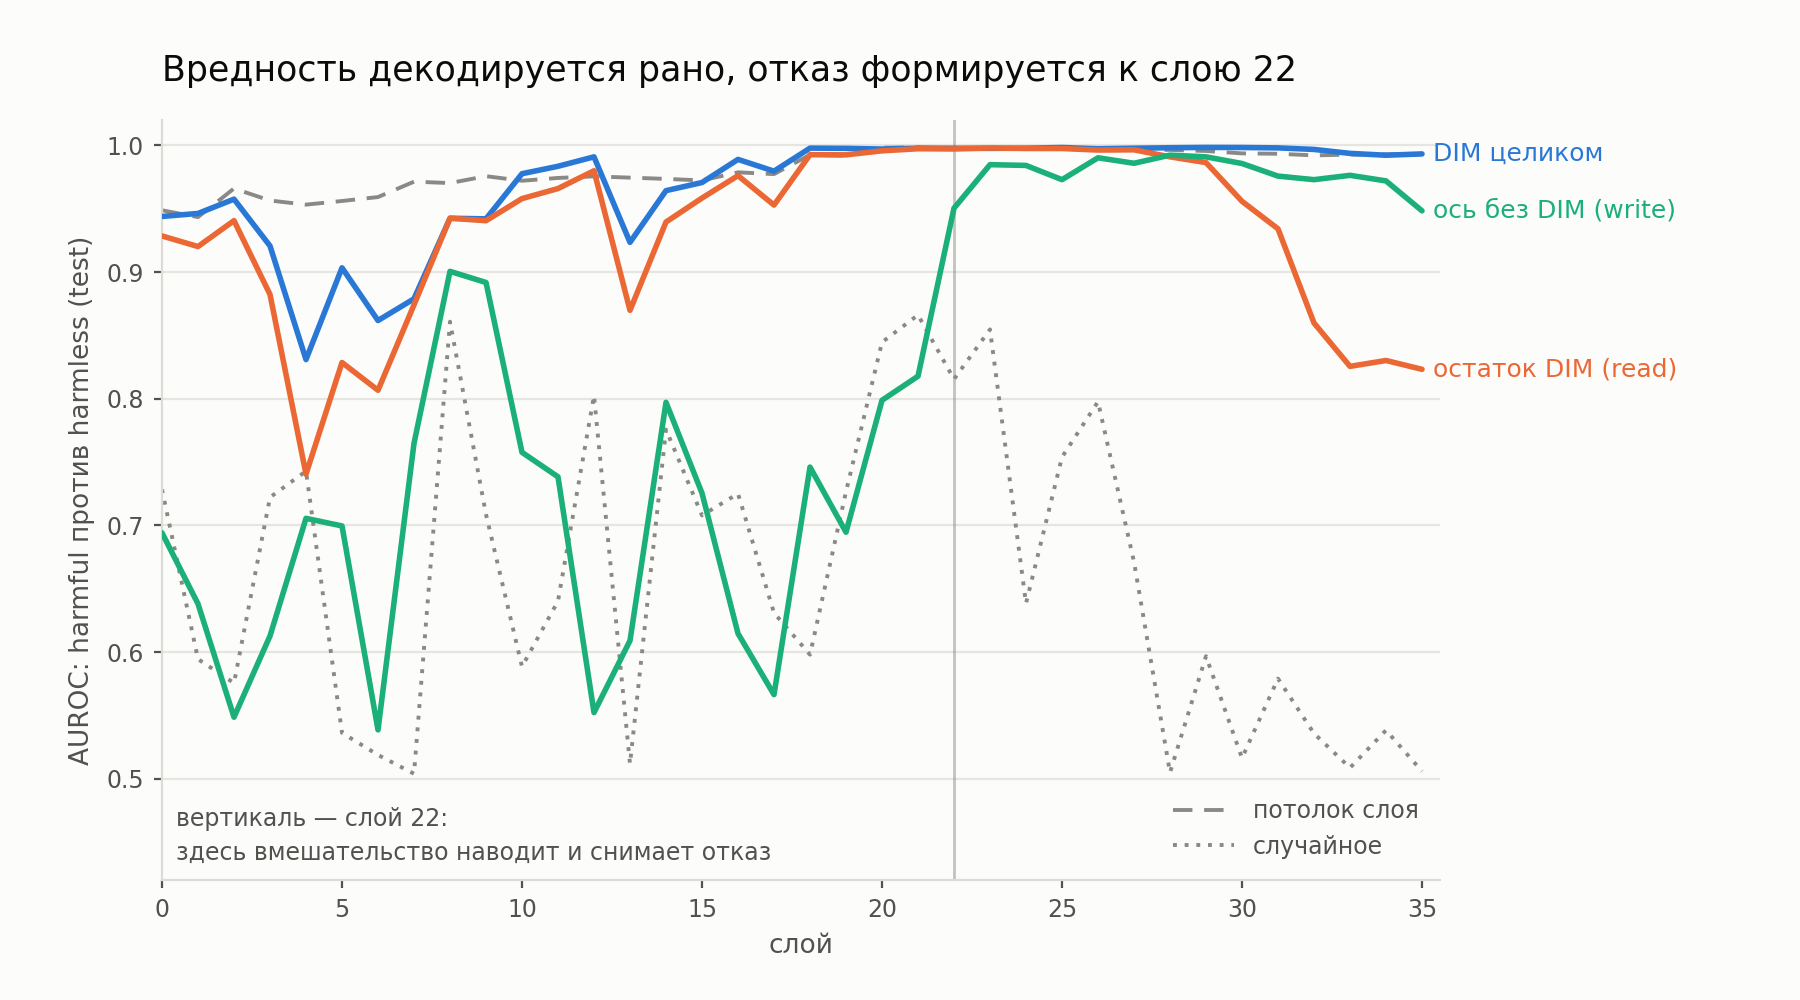
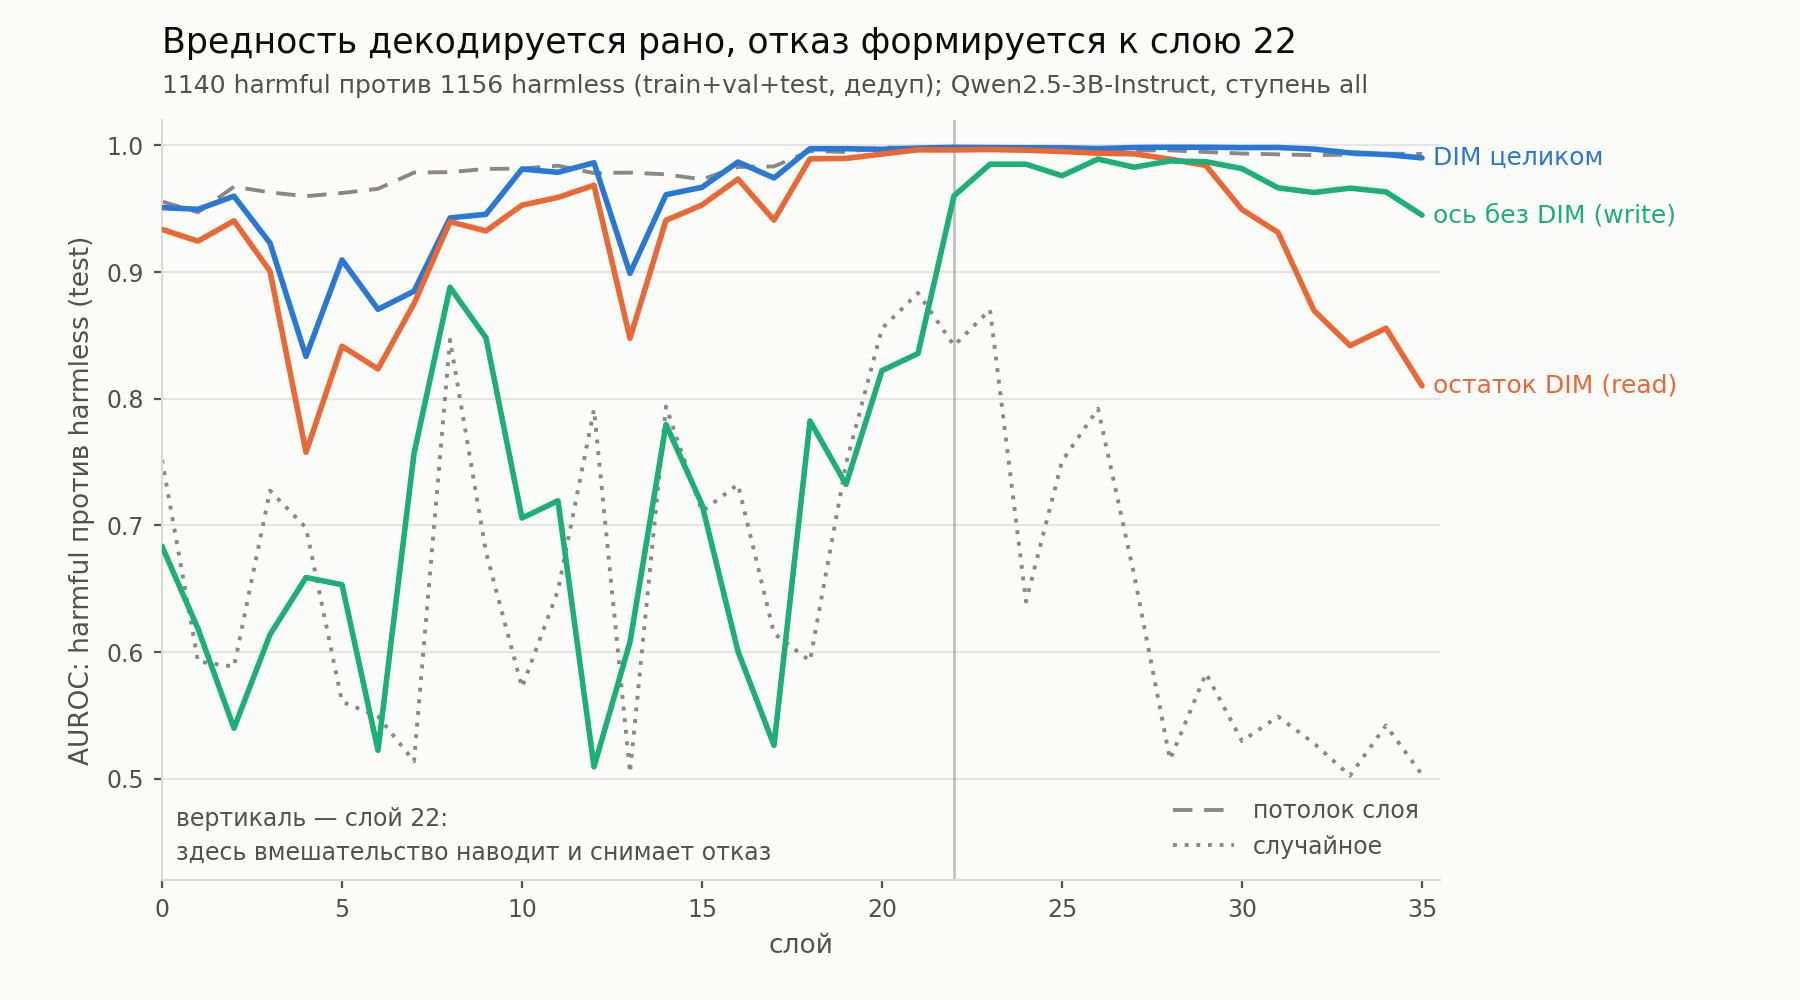
docs: §8 пересчитан на полном пуле (1140+1156) + новый график
Пересчёт на выборке в девять раз больше не изменил ни одного вывода, сдвиги
0.01-0.04. Добавлены 95% ДИ и точность по 5-фолдовой CV.

- слой 35: rand = 0.503 [0.500, 0.526] — ровно монетка, сравнение чистое
- остаток DIM на выходе 0.810 [0.793, 0.827] против 0.990 у целого DIM
- write-ось на слоях 12 и 17 даёт 0.509 и 0.526 — буквально монетка, и не
  отличается от случайного на 12 слоях из 22 до слоя 22

diff --git a/experiments/common_axis/scripts/plot_read_probe.py b/experiments/common_axis/scripts/plot_read_probe.py
@@ -34,6 +34,7 @@ def main():
     ap.add_argument("--json", required=True)
     ap.add_argument("--out", required=True)
     ap.add_argument("--mark_layer", type=int, default=22, help="слой вмешательства")
+    ap.add_argument("--note", default=None, help="подзаголовок: объём выборки и т.п.")
     args = ap.parse_args()
 
     rows = json.load(open(args.json))["rows"]
@@ -66,7 +67,12 @@ def main():
     ax.set_xlabel("слой", color=INK2, fontsize=9.5)
     ax.set_ylabel("AUROC: harmful против harmless (test)", color=INK2, fontsize=9.5)
     ax.set_title("Вредность декодируется рано, отказ формируется к слою 22",
-                 color=INK, fontsize=12.5, loc="left", pad=14)
+                 color=INK, fontsize=12.5, loc="left",
+                 pad=24 if args.note else 14)
+    if args.note:
+        ax.annotate(args.note, xy=(0, 1.0), xycoords="axes fraction",
+                    xytext=(0, 8), textcoords="offset points",
+                    color=INK2, fontsize=9, va="bottom")
     ax.grid(axis="y", color="#e6e5e1", lw=0.8)
     ax.set_axisbelow(True)
     for side in ("top", "right"):

diff --git a/experiments/common_axis/reports/read-probe-all.md b/experiments/common_axis/reports/read-probe-all.md
@@ -1,58 +1,88 @@
 # §8. Read против write: детектирует ли остаток DIM вредность? Ступень `all`
 
-Модель Qwen2.5-3B-Instruct. Проекция активации последнего токена на направление; порог подобран на train (256+256), точность и AUROC — на test (128+128).
+Модель Qwen2.5-3B-Instruct. Проекция активации последнего токена на направление. Пул: **1140 harmful + 1156 harmless** (train+val+test, дедуп). AUROC порога не требует и считается на всём пуле, 95% ДИ — бутстрэп (1000); точность — 5-фолдовая кросс-валидация.
 Знак направления произволен, поэтому AUROC берётся как max(auc, 1−auc).
 `meandiff_layer` — разность средних, посчитанная на train ЭТОГО слоя: потолок слоя.
 
-## Лучший слой каждого направления
+## Фиксированные слои (основная таблица)
 
-| направление | слой | AUROC | acc (test) | d Коэна |
+Слои зафиксированы заранее, без отбора: выбор лучшего из 36 завышает оценку у слабых направлений.
+
+AUROC на test:
+
+| направление | начальный (0) | средний (18) | add_layer (22) | последний (35) |
 |---|---|---|---|---|
-| w_cone | 21 | **0.997** | 0.980 | 3.43 |
-| dim | 29 | **0.998** | 0.977 | 4.64 |
-| dim_perp_cone | 23 | **0.998** | 0.969 | 4.14 |
-| cone_perp_dim | 28 | **0.992** | 0.953 | 2.99 |
-| rand | 21 | **0.866** | 0.797 | 1.63 |
-| w_mixed | 19 | **0.998** | 0.977 | 3.51 |
-| meandiff_layer | 21 | **0.998** | 0.977 | 4.03 |
+| w_cone | 0.897 <sub>[0.884, 0.909]</sub> | 0.993 <sub>[0.991, 0.996]</sub> | 0.998 <sub>[0.997, 0.999]</sub> | 0.994 <sub>[0.992, 0.996]</sub> |
+| dim | 0.951 <sub>[0.943, 0.958]</sub> | 0.997 <sub>[0.996, 0.998]</sub> | 0.998 <sub>[0.998, 0.999]</sub> | 0.990 <sub>[0.987, 0.993]</sub> |
+| dim_perp_cone | 0.934 <sub>[0.924, 0.943]</sub> | 0.989 <sub>[0.986, 0.992]</sub> | 0.996 <sub>[0.995, 0.997]</sub> | 0.810 <sub>[0.793, 0.827]</sub> |
+| cone_perp_dim | 0.683 <sub>[0.663, 0.704]</sub> | 0.782 <sub>[0.764, 0.800]</sub> | 0.960 <sub>[0.953, 0.967]</sub> | 0.945 <sub>[0.935, 0.954]</sub> |
+| rand | 0.752 <sub>[0.732, 0.770]</sub> | 0.593 <sub>[0.569, 0.615]</sub> | 0.842 <sub>[0.825, 0.857]</sub> | 0.503 <sub>[0.500, 0.526]</sub> |
+| w_mixed | 0.939 <sub>[0.929, 0.947]</sub> | 0.998 <sub>[0.997, 0.999]</sub> | 0.999 <sub>[0.998, 0.999]</sub> | 0.997 <sub>[0.996, 0.998]</sub> |
+| meandiff_layer | 0.956 <sub>[0.948, 0.963]</sub> | 0.995 <sub>[0.994, 0.997]</sub> | 0.998 <sub>[0.997, 0.999]</sub> | 0.993 <sub>[0.991, 0.995]</sub> |
+
+В квадратных скобках — 95% ДИ бутстрэпом по промптам.
+
+Точность, 5-фолдовая кросс-валидация:
+
+| направление | начальный (0) | средний (18) | add_layer (22) | последний (35) |
+|---|---|---|---|---|
+| w_cone | 0.821 | 0.966 | 0.983 | 0.962 |
+| dim | 0.875 | 0.975 | 0.980 | 0.953 |
+| dim_perp_cone | 0.854 | 0.937 | 0.965 | 0.743 |
+| cone_perp_dim | 0.645 | 0.724 | 0.916 | 0.896 |
+| rand | 0.686 | 0.570 | 0.777 | 0.514 |
+| w_mixed | 0.862 | 0.983 | 0.979 | 0.976 |
+| meandiff_layer | 0.885 | 0.967 | 0.978 | 0.954 |
+
+## Лучший слой каждого направления (для справки; оценка завышена отбором)
+
+| направление | слой | AUROC | acc (CV) | d Коэна |
+|---|---|---|---|---|
+| w_cone | 22 | **0.998** | 0.983 | 3.33 |
+| dim | 29 | **0.998** | 0.978 | 4.84 |
+| dim_perp_cone | 23 | **0.997** | 0.970 | 4.34 |
+| cone_perp_dim | 26 | **0.989** | 0.956 | 2.95 |
+| rand | 21 | **0.883** | 0.801 | 1.71 |
+| w_mixed | 22 | **0.999** | 0.979 | 3.65 |
+| meandiff_layer | 22 | **0.998** | 0.978 | 4.07 |
 
 ## По слоям (AUROC на test)
 
 | слой | w_cone | dim | dim_perp_cone | cone_perp_dim | rand | w_mixed | meandiff_layer |
 |---|---|---|---|---|---|---|---|
-| 0 | 0.895 | 0.944 | 0.928 | 0.694 | 0.728 | 0.934 | 0.949 |
-| 1 | 0.918 | 0.946 | 0.920 | 0.638 | 0.594 | 0.945 | 0.943 |
-| 2 | 0.933 | 0.958 | 0.941 | 0.549 | 0.576 | 0.958 | 0.966 |
-| 3 | 0.889 | 0.921 | 0.882 | 0.613 | 0.722 | 0.959 | 0.956 |
-| 4 | 0.954 | 0.831 | 0.740 | 0.706 | 0.743 | 0.949 | 0.953 |
-| 5 | 0.966 | 0.903 | 0.829 | 0.700 | 0.536 | 0.958 | 0.956 |
-| 6 | 0.889 | 0.862 | 0.807 | 0.539 | 0.519 | 0.935 | 0.959 |
-| 7 | 0.602 | 0.879 | 0.874 | 0.765 | 0.504 | 0.877 | 0.971 |
-| 8 | 0.513 | 0.942 | 0.942 | 0.901 | 0.861 | 0.920 | 0.970 |
-| 9 | 0.522 | 0.942 | 0.940 | 0.892 | 0.709 | 0.904 | 0.976 |
-| 10 | 0.909 | 0.978 | 0.958 | 0.758 | 0.588 | 0.980 | 0.972 |
-| 11 | 0.956 | 0.983 | 0.966 | 0.738 | 0.640 | 0.986 | 0.974 |
-| 12 | 0.970 | 0.991 | 0.980 | 0.552 | 0.802 | 0.991 | 0.976 |
-| 13 | 0.842 | 0.923 | 0.870 | 0.609 | 0.512 | 0.958 | 0.974 |
-| 14 | 0.830 | 0.964 | 0.939 | 0.797 | 0.776 | 0.975 | 0.974 |
-| 15 | 0.981 | 0.971 | 0.958 | 0.725 | 0.708 | 0.983 | 0.972 |
-| 16 | 0.989 | 0.989 | 0.976 | 0.615 | 0.725 | 0.989 | 0.979 |
-| 17 | 0.969 | 0.980 | 0.953 | 0.566 | 0.631 | 0.991 | 0.977 |
-| 18 | 0.993 | 0.998 | 0.993 | 0.746 | 0.598 | 0.997 | 0.992 |
-| 19 | 0.992 | 0.998 | 0.992 | 0.695 | 0.727 | 0.998 | 0.992 |
-| 20 | 0.996 | 0.997 | 0.996 | 0.799 | 0.845 | 0.997 | 0.998 |
-| 21 | 0.997 | 0.998 | 0.997 | 0.818 | 0.866 | 0.997 | 0.998 |
-| 22 | 0.996 | 0.998 | 0.997 | 0.950 | 0.815 | 0.997 | 0.998 |
-| 23 | 0.996 | 0.998 | 0.998 | 0.985 | 0.855 | 0.997 | 0.997 |
-| 24 | 0.996 | 0.998 | 0.997 | 0.984 | 0.638 | 0.997 | 0.997 |
-| 25 | 0.997 | 0.998 | 0.997 | 0.973 | 0.754 | 0.997 | 0.997 |
-| 26 | 0.996 | 0.997 | 0.996 | 0.990 | 0.798 | 0.996 | 0.997 |
-| 27 | 0.997 | 0.998 | 0.996 | 0.986 | 0.671 | 0.997 | 0.997 |
-| 28 | 0.997 | 0.998 | 0.991 | 0.992 | 0.505 | 0.997 | 0.996 |
-| 29 | 0.996 | 0.998 | 0.986 | 0.991 | 0.597 | 0.997 | 0.996 |
-| 30 | 0.995 | 0.998 | 0.956 | 0.986 | 0.516 | 0.997 | 0.994 |
-| 31 | 0.995 | 0.998 | 0.934 | 0.976 | 0.579 | 0.996 | 0.993 |
-| 32 | 0.995 | 0.997 | 0.860 | 0.973 | 0.536 | 0.996 | 0.992 |
-| 33 | 0.995 | 0.994 | 0.826 | 0.976 | 0.509 | 0.996 | 0.993 |
-| 34 | 0.994 | 0.992 | 0.830 | 0.972 | 0.538 | 0.995 | 0.993 |
-| 35 | 0.994 | 0.993 | 0.823 | 0.948 | 0.506 | 0.996 | 0.993 |
+| 0 | 0.897 | 0.951 | 0.934 | 0.683 | 0.752 | 0.939 | 0.956 |
+| 1 | 0.914 | 0.950 | 0.924 | 0.618 | 0.592 | 0.946 | 0.947 |
+| 2 | 0.932 | 0.960 | 0.940 | 0.540 | 0.588 | 0.958 | 0.967 |
+| 3 | 0.888 | 0.923 | 0.901 | 0.614 | 0.727 | 0.948 | 0.963 |
+| 4 | 0.921 | 0.833 | 0.758 | 0.659 | 0.698 | 0.931 | 0.960 |
+| 5 | 0.949 | 0.910 | 0.841 | 0.653 | 0.561 | 0.956 | 0.962 |
+| 6 | 0.892 | 0.871 | 0.823 | 0.522 | 0.549 | 0.937 | 0.966 |
+| 7 | 0.616 | 0.885 | 0.875 | 0.757 | 0.514 | 0.897 | 0.978 |
+| 8 | 0.521 | 0.943 | 0.940 | 0.888 | 0.847 | 0.933 | 0.979 |
+| 9 | 0.536 | 0.946 | 0.932 | 0.848 | 0.679 | 0.917 | 0.981 |
+| 10 | 0.902 | 0.981 | 0.953 | 0.706 | 0.572 | 0.985 | 0.982 |
+| 11 | 0.962 | 0.979 | 0.959 | 0.719 | 0.648 | 0.985 | 0.984 |
+| 12 | 0.966 | 0.986 | 0.969 | 0.509 | 0.791 | 0.990 | 0.978 |
+| 13 | 0.823 | 0.899 | 0.848 | 0.608 | 0.505 | 0.937 | 0.978 |
+| 14 | 0.840 | 0.961 | 0.941 | 0.780 | 0.794 | 0.975 | 0.977 |
+| 15 | 0.971 | 0.967 | 0.953 | 0.716 | 0.711 | 0.976 | 0.973 |
+| 16 | 0.988 | 0.987 | 0.973 | 0.601 | 0.732 | 0.989 | 0.983 |
+| 17 | 0.976 | 0.974 | 0.941 | 0.526 | 0.615 | 0.989 | 0.983 |
+| 18 | 0.993 | 0.997 | 0.989 | 0.782 | 0.593 | 0.998 | 0.995 |
+| 19 | 0.993 | 0.997 | 0.990 | 0.732 | 0.748 | 0.998 | 0.995 |
+| 20 | 0.997 | 0.997 | 0.993 | 0.822 | 0.855 | 0.998 | 0.998 |
+| 21 | 0.998 | 0.998 | 0.996 | 0.836 | 0.883 | 0.998 | 0.998 |
+| 22 | 0.998 | 0.998 | 0.996 | 0.960 | 0.842 | 0.999 | 0.998 |
+| 23 | 0.998 | 0.998 | 0.997 | 0.985 | 0.870 | 0.998 | 0.998 |
+| 24 | 0.998 | 0.998 | 0.996 | 0.985 | 0.640 | 0.998 | 0.997 |
+| 25 | 0.998 | 0.998 | 0.995 | 0.976 | 0.751 | 0.998 | 0.997 |
+| 26 | 0.998 | 0.997 | 0.994 | 0.989 | 0.792 | 0.997 | 0.996 |
+| 27 | 0.998 | 0.998 | 0.993 | 0.983 | 0.662 | 0.997 | 0.996 |
+| 28 | 0.998 | 0.998 | 0.989 | 0.988 | 0.515 | 0.998 | 0.996 |
+| 29 | 0.998 | 0.998 | 0.984 | 0.987 | 0.583 | 0.997 | 0.995 |
+| 30 | 0.997 | 0.998 | 0.949 | 0.982 | 0.530 | 0.998 | 0.994 |
+| 31 | 0.996 | 0.998 | 0.931 | 0.966 | 0.549 | 0.998 | 0.993 |
+| 32 | 0.996 | 0.997 | 0.870 | 0.963 | 0.528 | 0.998 | 0.992 |
+| 33 | 0.995 | 0.994 | 0.842 | 0.966 | 0.502 | 0.997 | 0.993 |
+| 34 | 0.994 | 0.993 | 0.856 | 0.963 | 0.542 | 0.997 | 0.993 |
+| 35 | 0.994 | 0.990 | 0.810 | 0.945 | 0.503 | 0.997 | 0.993 |
